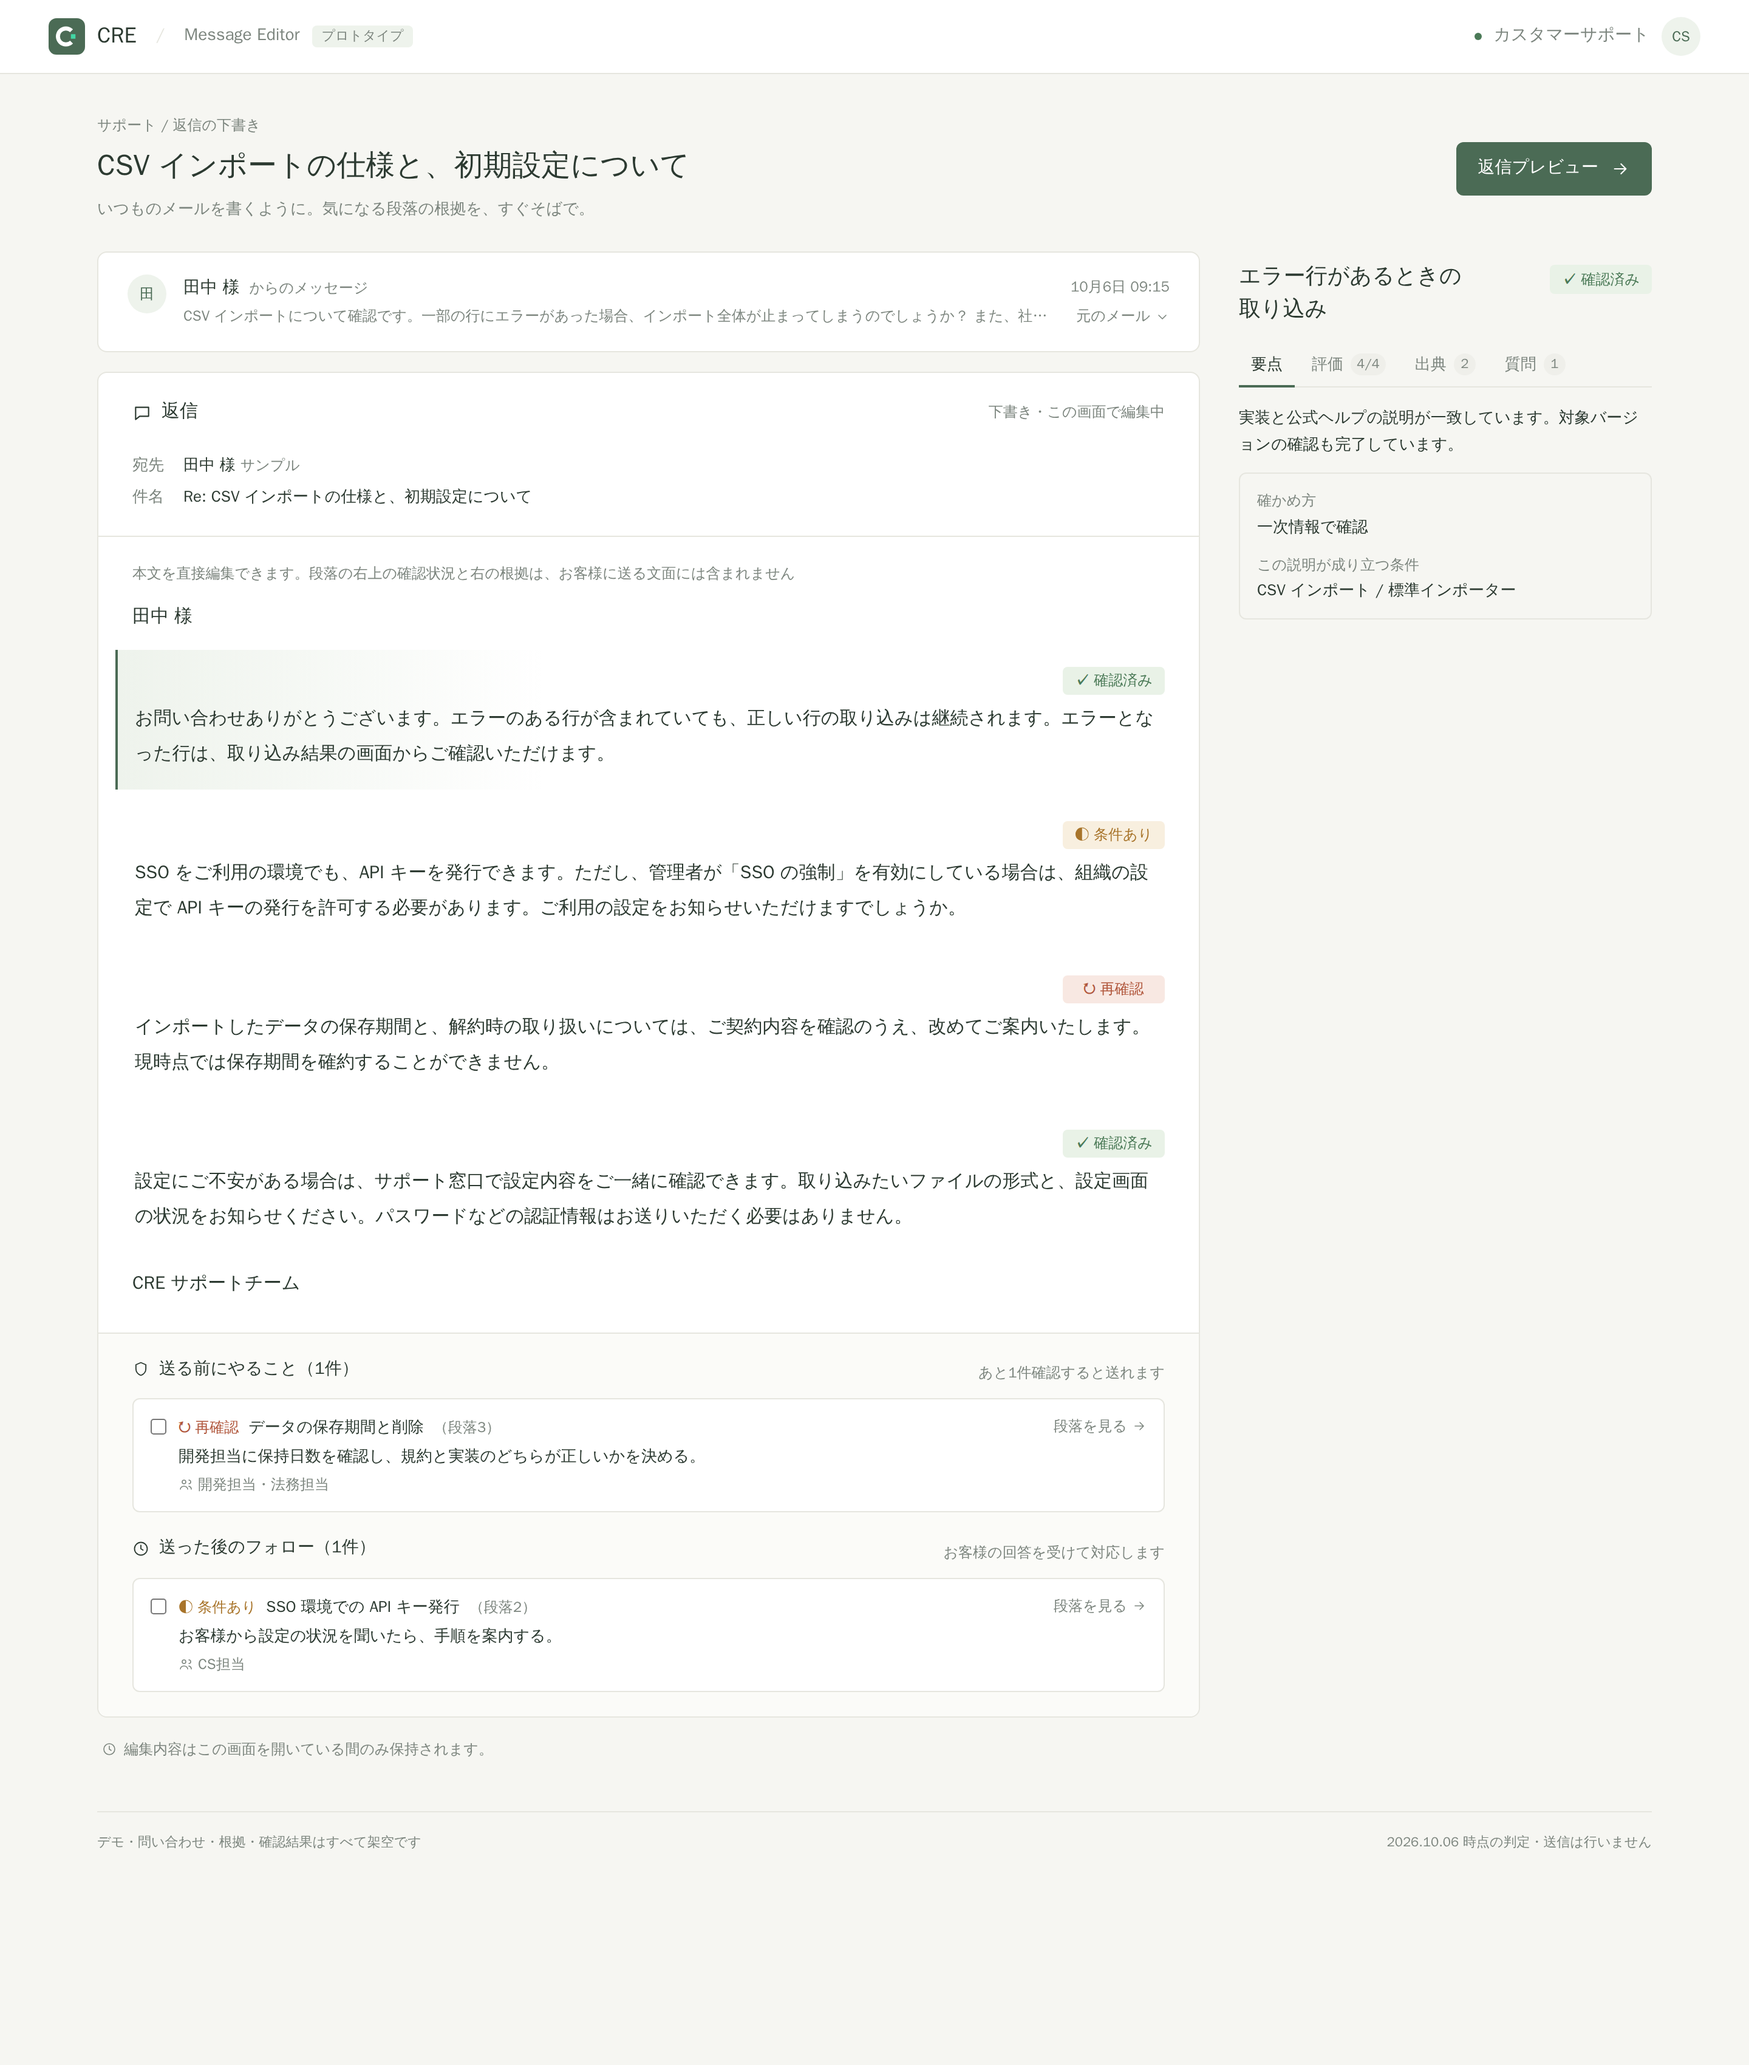
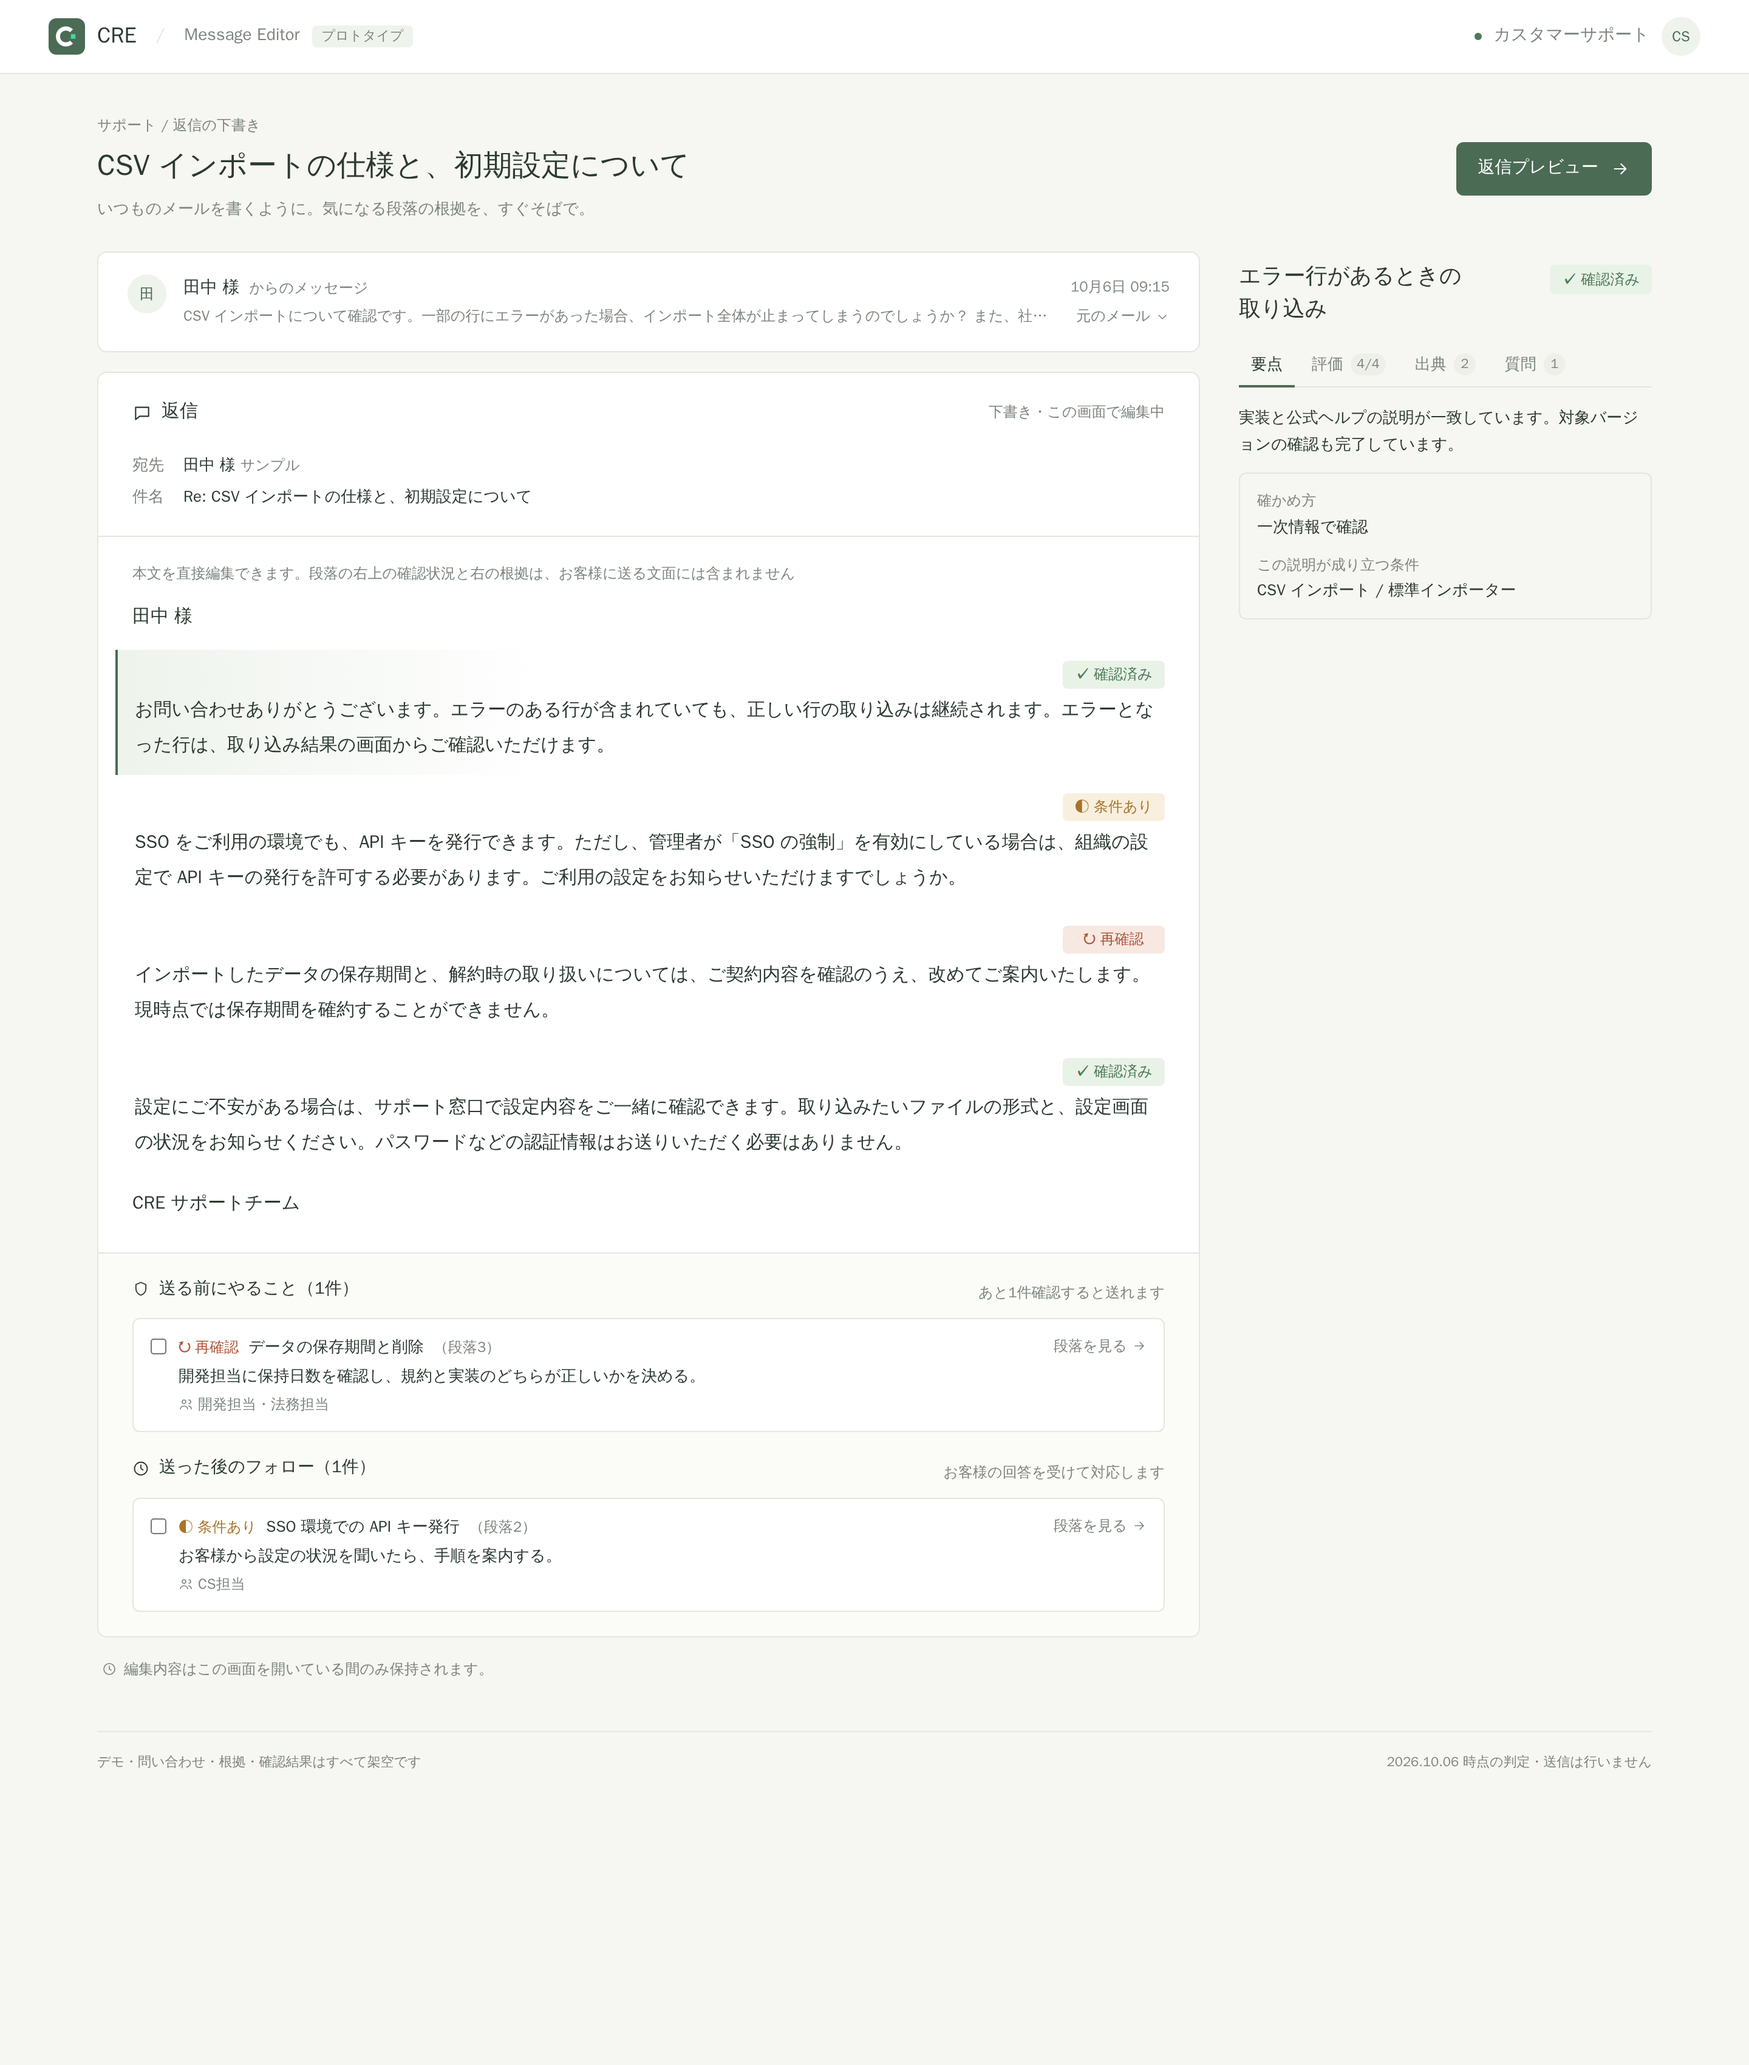
style(message-editor): 段落の上下の間隔を詰める (#39)
* style(message-editor): 段落の上下の間隔を詰める

1 行だけの段落が続くと、段落の間（約 40px）と確認状況のバッジで本文どうしが
約 98px 離れ、間延びして見えていた。上下の余白を 14px から 9px、段落の間を
12px から 6px、バッジと本文の間を 4px から 2px にし、1 行のときは約 80px にする。
複数行の段落でも窮屈にならないことを、両方のパターンの画像で確かめた。

Claude-Session: https://claude.ai/code/session_01YXcEYbpKWD3HmFVrWVc8WA

* docs(message-editor): update guide screenshots

---------

diff --git a/apps/message-editor/src/styles.css b/apps/message-editor/src/styles.css
@@ -318,12 +318,13 @@ h1 {
   font-size: 15px;
 }
 
-/* 確認状況（上）と本文（下）を縦に並べる。本文の幅は狭めない */
+/* 確認状況（上）と本文（下）を縦に並べる。本文の幅は狭めない。
+   1 行だけの段落が続いても間延びしないよう、上下の余白と段落の間は詰めておく */
 .paragraph {
   display: grid;
   gap: 2px;
-  margin: 0 -14px 12px;
-  padding: 14px;
+  margin: 0 -14px 6px;
+  padding: 9px 14px;
   border-left: 2px solid transparent;
   cursor: pointer;
 }
@@ -345,7 +346,7 @@ h1 {
 .paragraph > .status-chip {
   justify-self: end;
   width: 84px;
-  margin-bottom: 4px;
+  margin-bottom: 2px;
   line-height: 1.7;
   text-align: center;
   white-space: nowrap;
